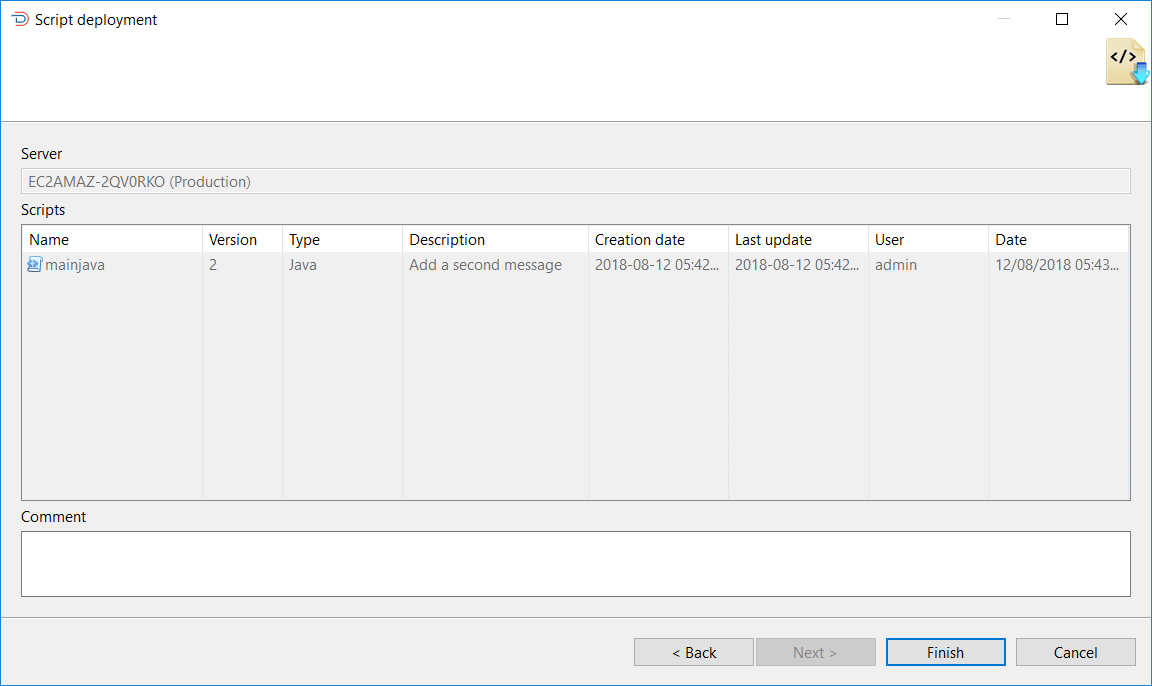
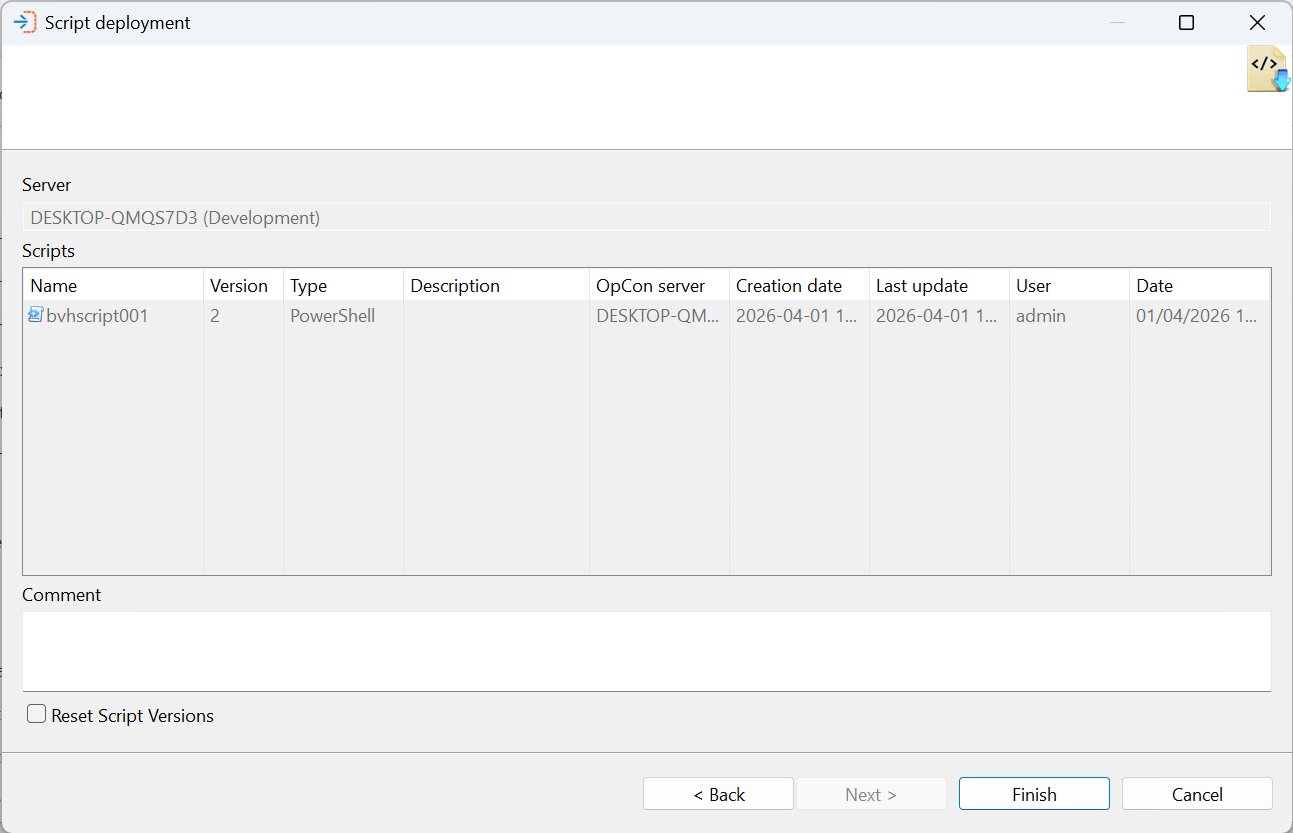
Merge pull request #28 from Bertievh/main
Deploy version 26.0.3 doc updates

Pull request: Deploy version 26.0.3 doc updates

diff --git a/docs/release-notes.md b/docs/release-notes.md
@@ -18,7 +18,48 @@ Deploy contains compatibility checks to ensure that features supported in newer 
 
 The ImpEx2 server portion of Deploy is paired with each specific OpCon release and is part of the OpCon release. The ImpEx2 server for each release is patched and released within the OpCon release cycles.
 
+## Important Notice 
+
+Deploy version 25.2.x has been capped and there will be no more releases for this version. 
+Deploy 25.2.x was introduced duringa transitionary phase when the release of longer OpCon passwords for OpCon 26.0.x required a
+changed ImpEx2 library that could connect to both OpCon 26.x and OpCon 25.x and older system. This transition is now complete and
+Deploy 25.x.x is no longer required.
+
+Deploy users should upgrade to Deploy version 26.0.2 taking into account any paired ImpEx2 versions.
+
 ## 26
+
+## Version 26.0.3
+
+2026 May
+
+Deploy version 26.0.3 implements a new capability to reset the script versions of a script in the Deploy database from a selected OpCon system. The reset versions can then be deployed to other target OpCon systems snychronizing the sctipt versions across OpCon systems.
+
+This Deploy version requires matching OpCon versions, 26.1.3, 26.0.5, 25.0.7 and 23.0.15.
+
+**Migration Considerations**
+
+When implementing the script version reset capability, all OpCon systems should be upgraded to the correct OpCon versions before upgrading the Deploy version to 26.0.3 as Deploy functions will not be possible due to matching software requirements.
+
+If it is not possible to upgrade all OpCon systems and Deploy simultaneously, the Deploy version should be upgraded to 26.0.2 before starting the upgrade process.
+
+1. Upgrade Deploy to version 26.0.2.
+2. Upgrade OpCon ImpEx2 versions to 26.1.3, 26.0.5, 25.0.7 and 23.0.15.
+3. Upgrade Deploy to version 26.0.3.
+
+**New Features**
+
+:eight_spoked_asterisk: **CON-1532*** Adds a new button **Reset Script Versions** to Script Import and Script Deploy Summary screens.
+    When the button is selected on Script Import Summary screen, the script versions in the Deploy database for the selected script will be reset to the versions of the script retrieved from the selected OpCon System.
+    When the button is selected on Script Deploy Summary screen, the script versions in the OpCon database of the selected OpCon system, for the selected script will be reset to the versions of the script retrieved from the Deploy database.
+
+## Version 26.0.2
+
+2026 May
+
+**New Features**
+
+:eight_spoked_asterisk: **CON-1577*** Rebuild software with updated ImpEx2 library to include a change to the ScriptInformation object setting the IgnoreUnknown value to true. 
 
 ## Version 26.0.1
 

diff --git a/docs/scripts.md b/docs/scripts.md
@@ -53,6 +53,8 @@ When importing scripts, it is not necessary to select a script version as all mi
 
 Once Next has been selected, the selected script(s) will be displayed in the Script Import (Summary) dialog. This provides a summary of your selections, allows a description to be added to the script records.
 
+The **Reset Script Versions** button at the bottom of the screen when selected, will replace all script versions of the associated script in the Deploy database with the script versions retrieved from the selected OpCon system.
+
 ![Script Import Summary Image](../static/img/script-import-summary.png)
 
 If the script(s) has been inserted successfully into the repository, you will get a success message indicating that the script has been inserted for each selected script.
@@ -85,6 +87,8 @@ Once the scripts have been selected, select the Next button to select the OpCon 
 ![Deploy Scripts Select Server Image](../static/img/scripts-select-server.png)
 
 The target OpCon system can be selected from the list. Once the target system has been selected, select either the Next or Finish button. If the Next button is selected, the Script Deployment Summary dialog appears. It is possible to add a description in the comment field, which can be used to describe the reason for the deployment.
+
+The **Reset Script Versions** button at the bottom of the screen when selected, will replace all script versions of the associated script in the OpCon database of  the selected OpCon system with the script versions retrieved from the Deploy database.
 
 ![Deploy Script Summary Image](../static/img/scripts-summary-dialog.png)
 

diff --git a/docs/scripts-overview.md b/docs/scripts-overview.md
@@ -23,6 +23,7 @@ The Scripts section covers how OpCon Deploy handles embedded scripts — the reu
 - Configuring whether embedded scripts are included or excluded when schedule definitions are imported
 - Deploying a script to a new OpCon system before deploying schedules that reference it
 - Reviewing which scripts are stored in the OpCon Deploy repository and their version history
+- Resetting the script versions across OpCon systems and Deploy to ensure that the script version numbers are consistent across all system
 - Troubleshooting a deployment failure caused by a missing or mismatched script on a target system
 
 ## What is in this section?